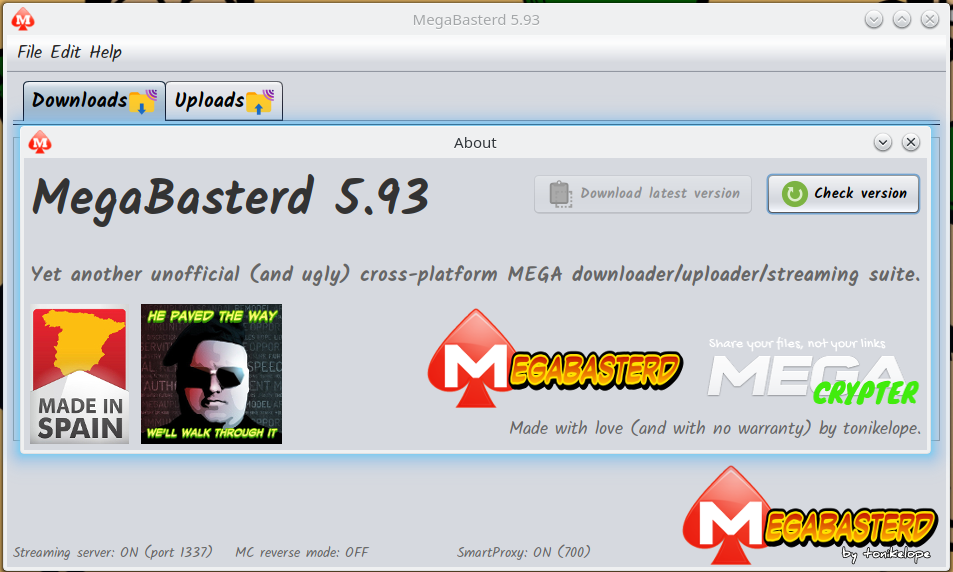
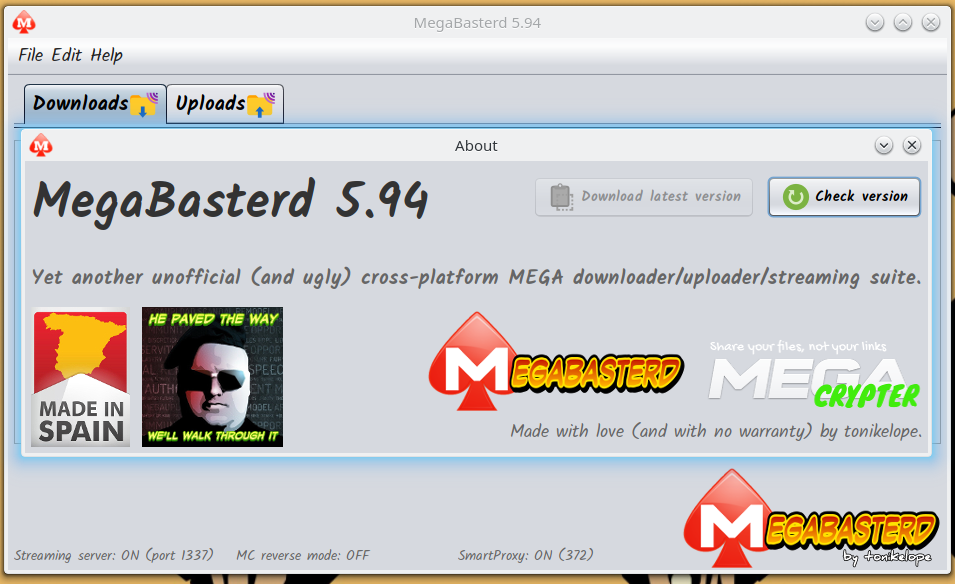
5.94
-Download url error fix

Changed region(s): [[0.0, 0.0, 1.0, 1.0], [0.5782, 0.3566, 0.6086, 0.3864], [0.4869, 0.535, 0.5173, 0.5647]]

diff --git a/src/main/java/com/tonikelope/megabasterd/DownloadView.java b/src/main/java/com/tonikelope/megabasterd/DownloadView.java
@@ -216,7 +216,7 @@ public final class DownloadView extends javax.swing.JPanel implements Transferen
 
         file_name_label.setFont(new java.awt.Font("Dialog", 1, 20)); // NOI18N
         file_name_label.setForeground(new java.awt.Color(0, 102, 153));
-        file_name_label.setText("Archivo de prueba xxxxxxxxxxxxxxxxxxxxxxxxxxxxxx");
+        file_name_label.setText("---");
         file_name_label.setDoubleBuffered(true);
 
         close_button.setFont(new java.awt.Font("Dialog", 1, 16)); // NOI18N
@@ -251,7 +251,7 @@ public final class DownloadView extends javax.swing.JPanel implements Transferen
 
         file_size_label.setFont(new java.awt.Font("Dialog", 1, 20)); // NOI18N
         file_size_label.setForeground(new java.awt.Color(0, 102, 153));
-        file_size_label.setText("500 MB");
+        file_size_label.setText("---");
         file_size_label.setDoubleBuffered(true);
 
         slot_status_label.setFont(new java.awt.Font("Dialog", 1, 14)); // NOI18N

diff --git a/src/main/java/com/tonikelope/megabasterd/UploadView.java b/src/main/java/com/tonikelope/megabasterd/UploadView.java
@@ -182,7 +182,7 @@ public final class UploadView extends javax.swing.JPanel implements Transference
 
         file_name_label.setFont(new java.awt.Font("Dialog", 1, 20)); // NOI18N
         file_name_label.setForeground(new java.awt.Color(0, 102, 153));
-        file_name_label.setText("Archivo de prueba xxxxxxxxxxxxxxxxxxxxxxxxxxxxxx");
+        file_name_label.setText("---");
         file_name_label.setDoubleBuffered(true);
 
         close_button.setFont(new java.awt.Font("Dialog", 1, 16)); // NOI18N
@@ -207,7 +207,7 @@ public final class UploadView extends javax.swing.JPanel implements Transference
 
         file_size_label.setFont(new java.awt.Font("Dialog", 1, 20)); // NOI18N
         file_size_label.setForeground(new java.awt.Color(0, 102, 153));
-        file_size_label.setText("500 MB");
+        file_size_label.setText("---");
         file_size_label.setDoubleBuffered(true);
 
         slot_status_label.setFont(new java.awt.Font("Dialog", 1, 14)); // NOI18N

diff --git a/src/main/java/com/tonikelope/megabasterd/MegaAPI.java b/src/main/java/com/tonikelope/megabasterd/MegaAPI.java
@@ -530,7 +530,13 @@ public final class MegaAPI implements Serializable {
 
         HashMap[] res_map = objectMapper.readValue(data, HashMap[].class);
 
-        return (String) res_map[0].get("g");
+        String download_url = (String) res_map[0].get("g");
+
+        if (download_url == null || "".equals(download_url)) {
+            throw new MegaAPIException(-101);
+        }
+
+        return download_url;
     }
 
     public String[] getMegaFileMetadata(String link) throws MegaAPIException, MalformedURLException, IOException {

diff --git a/src/main/java/com/tonikelope/megabasterd/SmartMegaProxyManager.java b/src/main/java/com/tonikelope/megabasterd/SmartMegaProxyManager.java
@@ -18,7 +18,7 @@ import java.util.logging.Logger;
 public class SmartMegaProxyManager {
 
     public static String DEFAULT_SMART_PROXY_URL = "https://raw.githubusercontent.com/tonikelope/megabasterd/proxy_list/proxy_list.txt";
-    public static final int BLOCK_TIME = 30;
+    public static final int BLOCK_TIME = 600;
     private volatile String _proxy_list_url;
     private final LinkedHashMap<String, Long> _proxy_list;
 

diff --git a/src/main/java/com/tonikelope/megabasterd/MainPanel.java b/src/main/java/com/tonikelope/megabasterd/MainPanel.java
@@ -48,7 +48,7 @@ import javax.swing.UIManager;
  */
 public final class MainPanel {
 
-    public static final String VERSION = "5.93";
+    public static final String VERSION = "5.94";
     public static final int THROTTLE_SLICE_SIZE = 16 * 1024;
     public static final int DEFAULT_BYTE_BUFFER_SIZE = 16 * 1024;
     public static final int STREAMER_PORT = 1337;

diff --git a/src/main/java/com/tonikelope/megabasterd/MiscTools.java b/src/main/java/com/tonikelope/megabasterd/MiscTools.java
@@ -817,6 +817,10 @@ public final class MiscTools {
 
     public static boolean checkMegaDownloadUrl(String string_url) {
 
+        if (string_url == null || "".equals(string_url)) {
+            return false;
+        }
+
         boolean url_ok = false;
 
         HttpURLConnection con = null;

diff --git a/src/main/java/com/tonikelope/megabasterd/MegaCrypterAPI.java b/src/main/java/com/tonikelope/megabasterd/MegaCrypterAPI.java
@@ -137,6 +137,10 @@ public final class MegaCrypterAPI {
             }
         }
 
+        if (dl_url == null || "".equals(dl_url)) {
+            throw new MegaCrypterAPIException(-101);
+        }
+
         return dl_url;
     }
 
